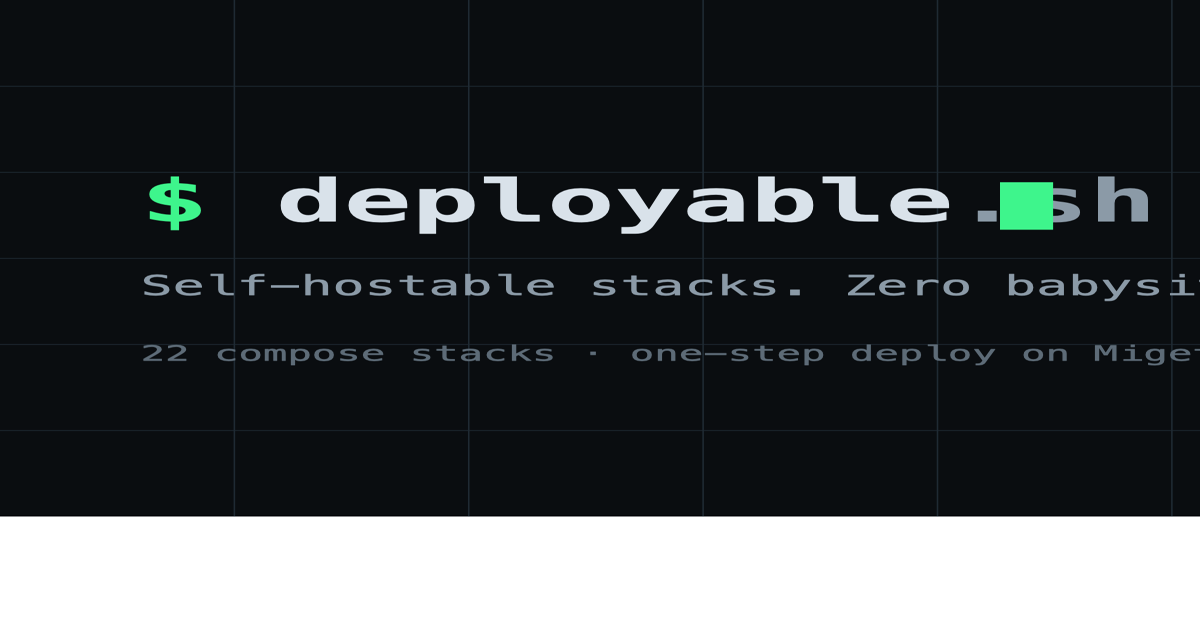
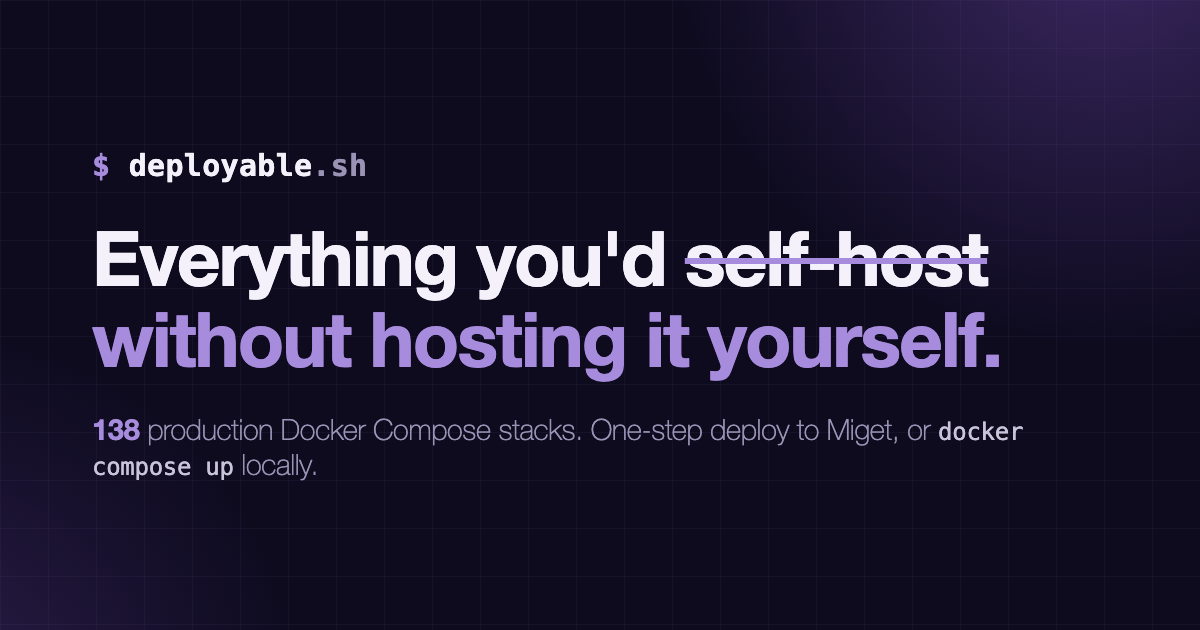
og: refresh image to current design, clean dashes from meta

diff --git a/deployable-sh/src/config.ts b/deployable-sh/src/config.ts
@@ -3,7 +3,7 @@ export const SITE = {
   url: 'https://deployable.sh',
   tagline: 'Self-hostable stacks. Zero babysitting.',
   description:
-    'A curated catalogue of production-shaped Docker Compose stacks - Kafka, n8n, Supabase, Keycloak, MongoDB and more - deployable in one step to Miget, or runnable locally with plain docker compose up.',
+    'A curated catalogue of production-shaped Docker Compose stacks (Kafka, n8n, Supabase, Keycloak, MongoDB and more), deployable in one step to Miget, or runnable locally with plain docker compose up.',
   repoUrl: 'https://github.com/deployable-sh/stacks',
   migetUrl: 'https://miget.com',
   migetAppUrl: 'https://app.miget.com',